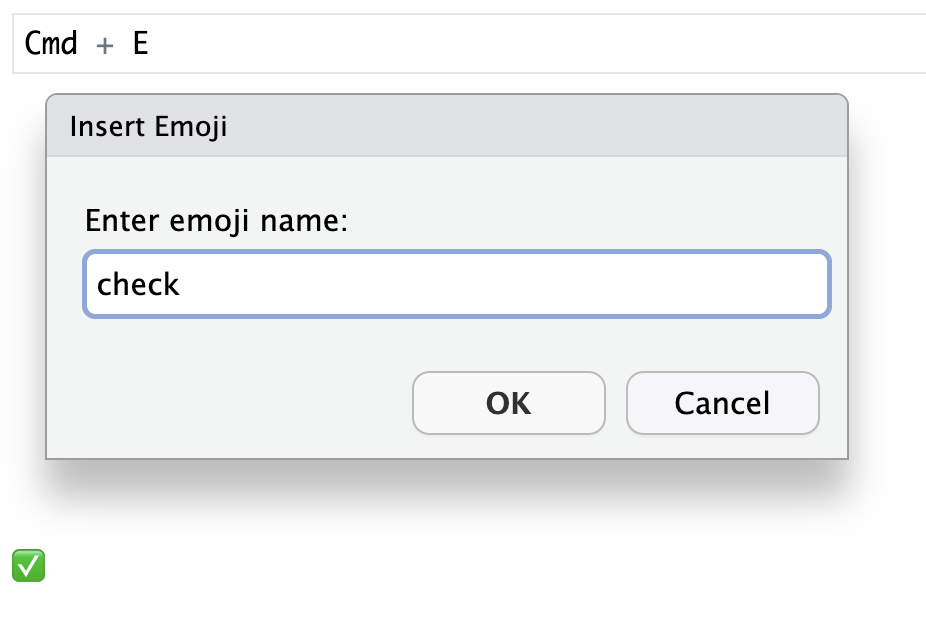
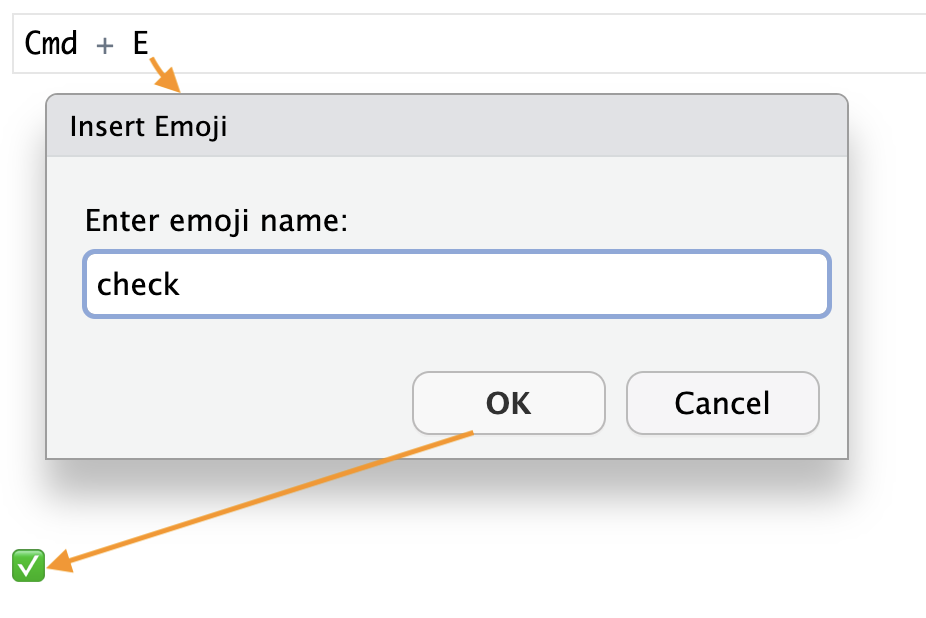
Fixed Readme file details 🐛

diff --git a/README.md b/README.md
@@ -62,7 +62,13 @@ The main advantage of this package is to visually insert the emoji using
 the keyboard shortcut. To custom create a short cut, go to your
 `Rstudio-->Tools-->Modify keyboard shortcuts`, then search for
 `Emoji shortcut addin` and hit the short cut you want to assign in your
-keyboard. Mine is `Cmd + E`. Assign yours as you feel comfortable.
+keyboard. Mine is `Cmd + E`. Assign yours as you feel comfortable. Once
+the keyboard shortcut is assigned, a popup screen for input will be
+displayed on each encounter, and the Emoji name can be provided in the
+query. On clicking enter in your keyboard, it will insert the Emoji,
+without any code in the cursor line.
+
+![](images/clipboard-2642191616.png)
 
 # 🧠 About
 
